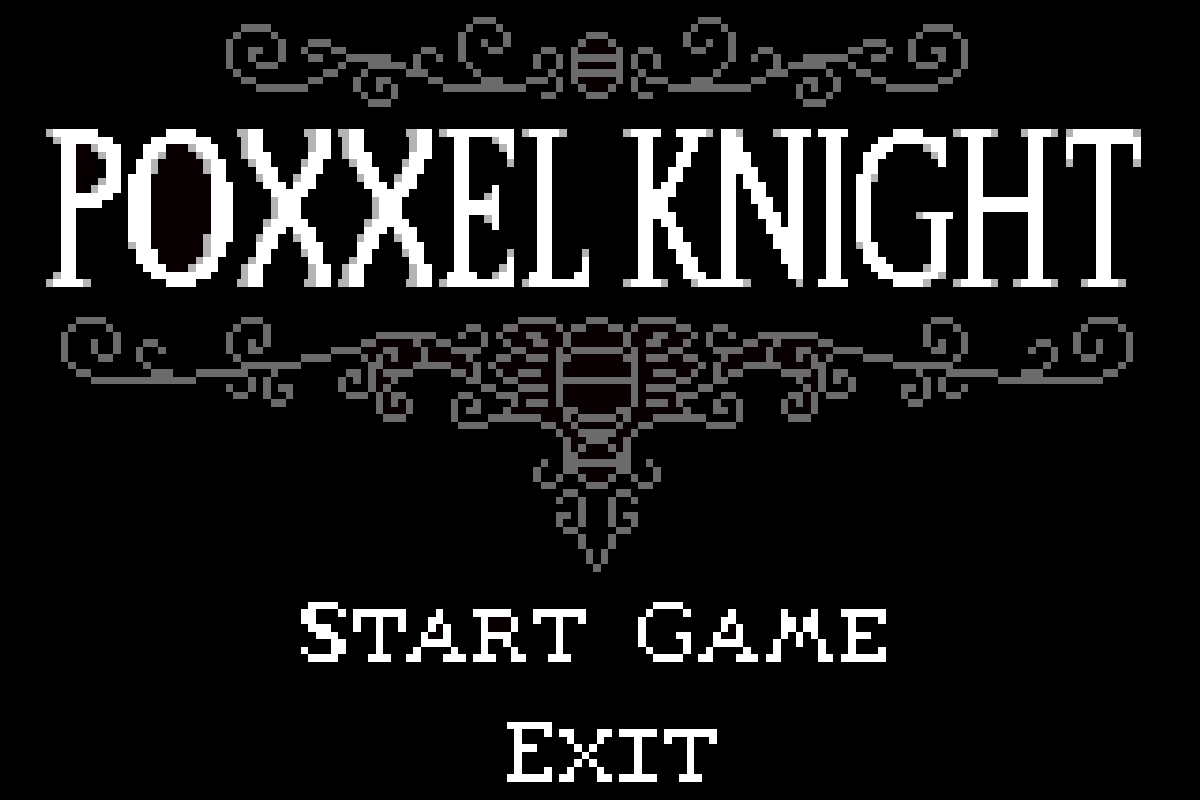
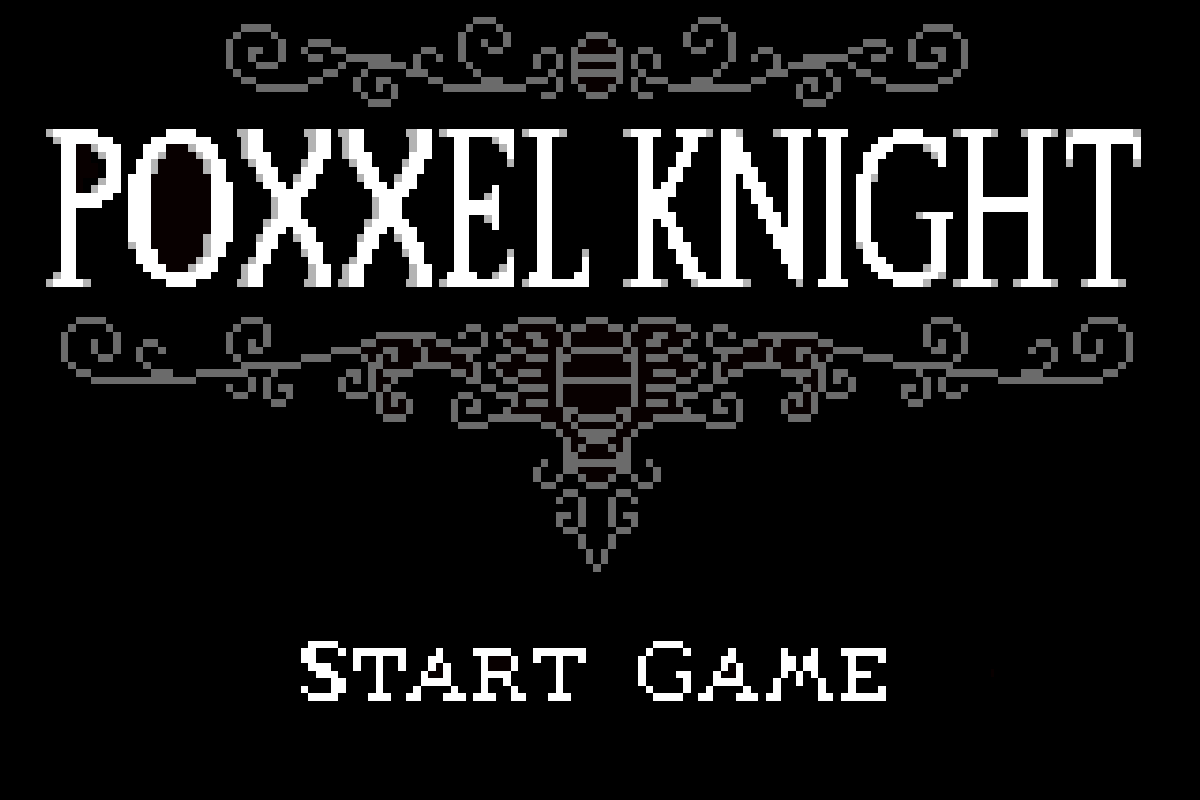
main screen

Changed region(s): [[0.2467, 0.75, 0.6167, 1.0], [0.5242, 0.75, 0.74, 0.875]]

diff --git a/main_casey.py b/main_casey.py
@@ -763,6 +763,27 @@ def draw_enemy_health_bar(enemy):
         health_width = int(bar_width * (enemy.health / enemy.max_health))
         pygame.draw.rect(screen, GREEN, (bar_x, bar_y, health_width, bar_height))
 
+# ---------- MAIN MENU ----------
+def draw_main_menu():
+    """Draw the main menu screen"""
+    try:
+        main_menu_img = pygame.image.load('img/BG/main_screen.png')
+        main_menu_img = pygame.transform.scale(main_menu_img, (SCREEN_WIDTH, SCREEN_HEIGHT))
+        main_menu_img = main_menu_img.convert()
+        screen.blit(main_menu_img, (0, 0))
+    except pygame.error:
+        # Fallback if image doesn't exist
+        screen.fill((50, 50, 100))
+        font = pygame.font.Font(None, 74)
+        text = font.render('POXEL', True, WHITE)
+        text_rect = text.get_rect(center=(SCREEN_WIDTH // 2, SCREEN_HEIGHT // 2 - 50))
+        screen.blit(text, text_rect)
+        
+        font_small = pygame.font.Font(None, 36)
+        text_small = font_small.render('Click anywhere to start', True, WHITE)
+        text_rect_small = text_small.get_rect(center=(SCREEN_WIDTH // 2, SCREEN_HEIGHT // 2 + 50))
+        screen.blit(text_small, text_rect_small)
+
 # ---------- GAME RESTART FUNCTION ----------
 def restart_game():
     global player, enemy
@@ -773,54 +794,61 @@ def restart_game():
 player = Player('player', 200, 200, 3, 5)
 enemy = Enemy(800, 500, 2, 2)
 
+# Game state
+game_state = 'menu'  # 'menu' or 'playing'
+
 run = True
 while run:
     clock.tick(FPS)
-    draw_bg()  # Now much faster!
+    
+    if game_state == 'menu':
+        draw_main_menu()
+    elif game_state == 'playing':
+        draw_bg()  # Now much faster!
 
-    player.update_animation()
-    player.draw()
+        player.update_animation()
+        player.draw()
 
-    if player.alive:
-        if player.attacking:
-            if player.attack_type == 'up':
-                player.update_action(6)
-            elif player.attack_type == 'down':
-                player.update_action(7)
+        if player.alive:
+            if player.attacking:
+                if player.attack_type == 'up':
+                    player.update_action(6)
+                elif player.attack_type == 'down':
+                    player.update_action(7)
+                else:
+                    player.update_action(5)
+            elif player.dashing:
+                player.update_action(4)
+            elif player.wall_sliding:
+                # Use idle animation for wall sliding (could be a dedicated wall slide animation)
+                player.update_action(0)
+            elif player.in_air:
+                if player.vel_y < 0:
+                    player.update_action(2)
+                else:
+                    player.update_action(3)
+            elif moving_left or moving_right:
+                player.update_action(1)
             else:
-                player.update_action(5)
-        elif player.dashing:
-            player.update_action(4)
-        elif player.wall_sliding:
-            # Use idle animation for wall sliding (could be a dedicated wall slide animation)
-            player.update_action(0)
-        elif player.in_air:
-            if player.vel_y < 0:
-                player.update_action(2)
-            else:
-                player.update_action(3)
-        elif moving_left or moving_right:
-            player.update_action(1)
-        else:
-            player.update_action(0)
+                player.update_action(0)
 
-        player.move(moving_left, moving_right)
+            player.move(moving_left, moving_right)
 
-    # Update enemy
-    if enemy.alive:
-        enemy.ai_behavior(player)
-        enemy.draw()
-        draw_enemy_health_bar(enemy)  # Draw enemy health bar
-    
-    # Check combat
-    check_combat(player, enemy)
-    
-    # Draw health masks instead of health bars
-    draw_health_masks(player.current_masks, player.max_masks)
-    
-    # Check if player died and restart game
-    if not player.alive or not enemy.alive:
-        restart_game()
+        # Update enemy
+        if enemy.alive:
+            enemy.ai_behavior(player)
+            enemy.draw()
+            draw_enemy_health_bar(enemy)  # Draw enemy health bar
+        
+        # Check combat
+        check_combat(player, enemy)
+        
+        # Draw health masks instead of health bars
+        draw_health_masks(player.current_masks, player.max_masks)
+        
+        # Check if player died and restart game
+        if not player.alive or not enemy.alive:
+            restart_game()
 
     for event in pygame.event.get():
         if event.type == pygame.QUIT:
@@ -839,7 +867,12 @@ while run:
                 moving_right = False
         if event.type == pygame.MOUSEBUTTONDOWN:
             if event.button == 1:
-                player.attack()
+                if game_state == 'menu':
+                    # Start game on click
+                    game_state = 'playing'
+                    restart_game()
+                elif game_state == 'playing':
+                    player.attack()
 
     pygame.display.update()
 
